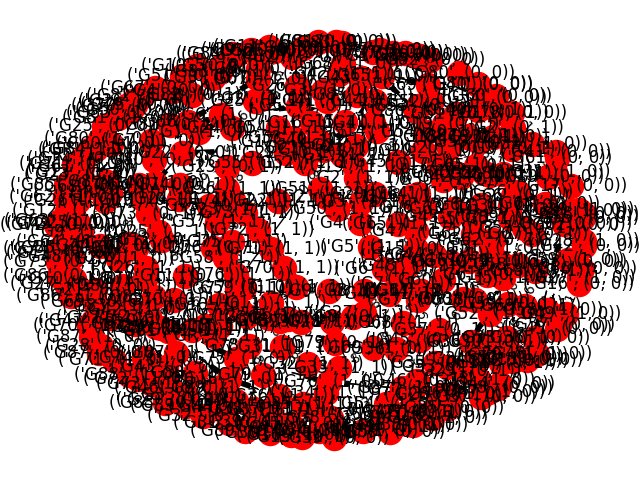
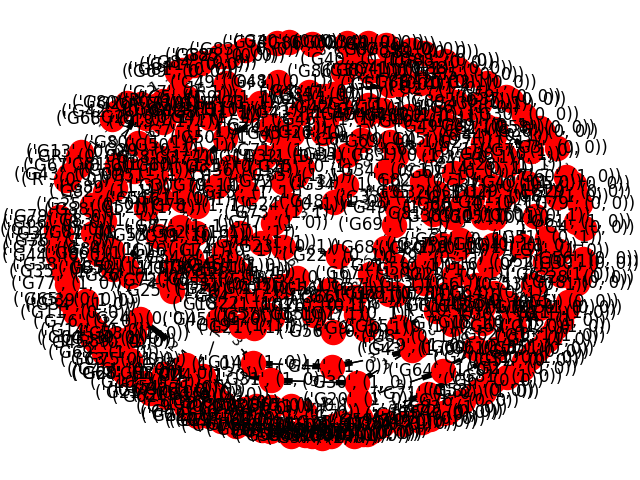
fixed label :)

diff --git a/lomap/tests/disp_graph3.py b/lomap/tests/disp_graph3.py
@@ -24,7 +24,7 @@ try:
     # fsa_pickup.from_formula('F (pick1 & F (pick2 & F dropoff)) | F (pick2 & F (pick1 & F dropoff))')
     # fsa_pickup.save('fsa_pickup.yaml')
     # print('Saved FSA pick!')
-    fsa_pickup = Fsa.load('tests/fsa_pickup.yaml')
+    # fsa_pickup = Fsa.load('tests/fsa_pickup.yaml')
 except Exception as e:
     print(f"Error loading the YAML file: {e}")
     exit()
@@ -39,33 +39,31 @@ packages = [
 ]
 dropoff = 'R'
 
-def ts_product_packages(ts, packages, dropoff):
+def ts_product_packages(ts, packages, dropoff): #translate to math for final write up look at picture
     
     ts_prod = Ts(multi=False, directed=True)
 
     dim = len(packages)
 
     ts_init = next(iter(ts.init))
-    ts_prod.init = (ts_init, (0,) * dim)
-
-    ts_prod.g.add_node((ts_init, (0,) * dim)) #added
-    ts_prod.g.node[(ts_init, (0,) * dim)]['prop'] = 'gr'
+    ts_prod.init = [(ts_init, (0,) * dim)]
     
     # states of product
-
-
     for state in ts.g.nodes(data=False):
         print(state)
         for pick in it.product((0, 1), repeat=dim):
             ts_prod.g.add_node((state, pick))
-            node_name = str(state)  # Get the node name as a string
-            if node_name.startswith('G'):
-                ts_prod.g.node[(state, pick)]['prop'] = node_name.lower()
-            elif node_name == 'R':
-                ts_prod.g.node[(state, pick)]['prop'] = 'r'
-            else:
-                ts_prod.g.node[(state, pick)]['prop'] = ''  # Default if no specific rule
+            # node_name = str(state)  # Get the node name as a string
+            # if node_name.startswith('G'):
+            #     ts_prod.g.node[(state, pick)]['prop'] = node_name.lower()
+            # elif node_name == 'R':
+            #     ts_prod.g.node[(state, pick)]['prop'] = 'r'
+            # else:
+            ts_prod.g.node[(state, pick)]['prop'] = {}  # Default if no specific rule
     
+    #  label the initial state with 'gr'
+    ts_prod.g.node[(ts_init, (0,) * dim)]['prop'] = {'gr'}
+
     package_weights = np.array([pck[2] for pck in packages]) #changed pkg[] to pck[]
     # transitions of product
     for ts_current, ts_next, data in ts.g.edges(data=True):
@@ -85,46 +83,19 @@ def ts_product_packages(ts, packages, dropoff):
             for state in locations:
                 ts_prod.g.add_edge((state, pick), (state, next_pick), weight=pick_weight)
                 # update labels for states where packages are picked up 
-                ts_prod.g.node[(state, next_pick)]['prop'] = packages[k][0]
+                ts_prod.g.node[(state, next_pick)]['prop'] = {packages[k][0]}
     
     ts_prod.g.add_edge((dropoff, (1,)*dim), (dropoff, (0,)*dim), weight=0)
 
-    ts_prod.g.node[(dropoff, (0,)*dim)]['prop'] = 'r'
+    ts_prod.g.node[(dropoff, (0,)*dim)]['prop'] = {'r'}
 
 
     return ts_prod
 
-ts_prod=ts_product_packages(ts2, packages, dropoff)
+ts_prod = ts_product_packages(ts2, packages, dropoff)
 
-# for label, state in packages.items():
-#     ts2.g.node[state]['prop'].add(label)
+# print('is SC:', nx.is_strongly_connected(ts_prod.g)) # SANITY CHECK
 
-# def product_transition_data(current_state, next_state):
-#     '''Returns the default data to store for a transition of a product.
-
-#     Parameters
-#     ----------
-#     current_state, next_state: hashable
-#         The endpoint states of the transition.
-
-#     Returns
-#     -------
-#         Dictionary containing the data to be stored.
-#     '''
-#     ts_current, fsa_current = current_state
-#     ts_next, fsa_next = next_state
-
-#     ts_weight = ts2.g[ts_current][ts_next]['weight']
-#     fsa_weight = fsa_pickup.g[fsa_current][fsa_next]['weight']
-
-#     return {'weight': ts_weight + fsa_weight}
-
-# ts_prod = product.ts_times_fsa(ts2, fsa_pickup, get_transition_data=product_transition_data)
-# print('TS prod done!', ts_prod.size())
-
-# exit()
-
-# ts_prod=product.ts_times_ts((ts,ts2))
 # Display graph details (optional)
 
 
@@ -135,6 +106,12 @@ node_key = ('GR', (0, 0))
 node_data = ts_prod.g.node[ts_prod_init].get('prop', set())  # Access the node's data
 print(node_data)
 #print(f"Edges: {list(ts_prod.g.edges(data=True))}")
+
+# print('----------\n\n')
+
+# for node, data in ts_prod.g.nodes(data=True):
+#     print(f'Node: {node}, data: {data}')
+# exit()
 
 # Visualize the graph using matplotlib
 try:
@@ -147,15 +124,18 @@ except Exception as e:
     print(f"Error visualizing the graph: {e}")
 
 # Define the specification and create FSA automaton
-spec = 'G((!r U (F pick1 & F pick2)) & X (F (r & X gr)))'
-spec= '(F pick1 && F pick2)'
+# spec = 'G((!r U (F pick1 & F pick2)) & X (F (r & X gr)))'
+spec = '(F pick1 && F pick2)'
 #spec= '  (gr && X (g13 && X (r && X (g13 && X gr))))'
 #spec ='F (g12 && F g24) || F (g24 && F g12) && X (F r)'
-fsa = Fsa()  # Create an Fsa object
+fsa = Fsa(multi=False)  # Create an Fsa object
 fsa.from_formula(spec)
 
 # Display FSA details
 print(f"FSA Size: {fsa.size()}")
+
+# print(fsa)
+# exit()
 
 # Visualize the FSA
 try:
@@ -170,8 +150,11 @@ except Exception as e:
 
 myvar2=2
 if myvar2==2:
-    pa=product.ts_times_fsa(ts_prod,fsa)
-    print(pa.size())
+    pa = product.ts_times_fsa(ts_prod, fsa)
+    print(pa.size(), ts_prod.size(), fsa.size())
+    print(pa.directed, pa.multi)
+    print(pa.init)
+    print(pa.final)
     pa.visualize(draw='matplotlib')
     plt.show()
     plt.title("PA Automaton")  # Add title for clarity

diff --git a/lomap/algorithms/product.py b/lomap/algorithms/product.py
@@ -192,14 +192,14 @@ def ts_times_fsa(ts, fsa, from_current=False, expand_finals=True,
     '''
 
     # Create the product_model
-    product_model = Model()
+    product_model = Model(multi=False)
     if from_current:
         product_model.init[(ts.current, fsa.current)] = 1
         #print(product_model.init)
     else:
         # Iterate over initial states of the TS
         for init_ts in ts.init:
-            init_ts=next(iter(ts.g.node))                        #comment this line out if not disp_graph3
+            #init_ts=next(iter(ts.g.node))                        #comment this line out if not disp_graph3
             init_prop = ts.g.node[init_ts].get('prop', set())
             print(init_prop)
             # Iterate over the initial states of the FSA
